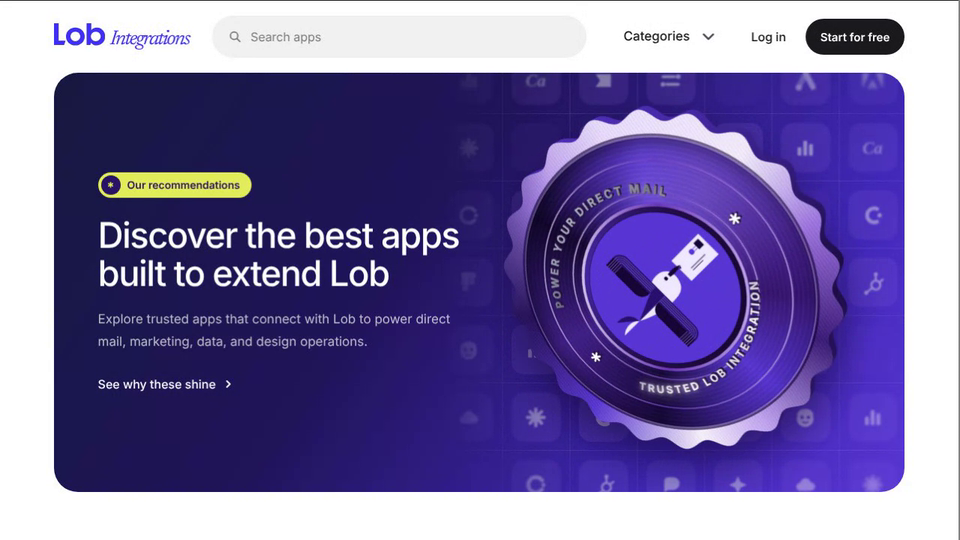
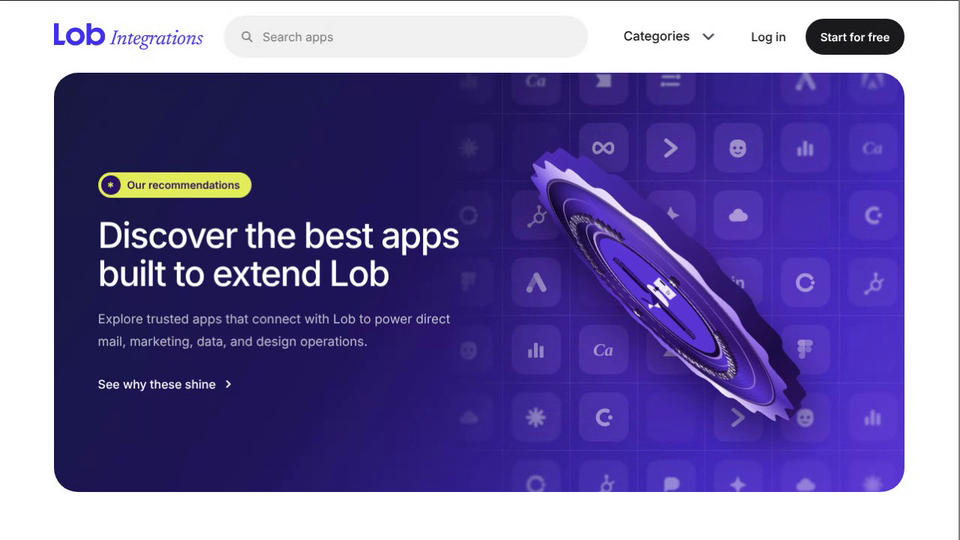
Lob Integrations Hero: loosen Integrations letter spacing (#401)
* Lob Integrations Hero: copy from lob.com/integrations, metallic purple, smaller elements, more integrations

Claude-Session: https://claude.ai/code/session_01AHeBdw5Dmhovddhvfinq8X

* Lob Integrations Hero: remove the square L from the header

Claude-Session: https://claude.ai/code/session_01AHeBdw5Dmhovddhvfinq8X

* Lob Integrations Hero: mute the logo grid

Claude-Session: https://claude.ai/code/session_01AHeBdw5Dmhovddhvfinq8X

* Lob Integrations Hero: remove the banner row and the Data/Design/API line

Claude-Session: https://claude.ai/code/session_01AHeBdw5Dmhovddhvfinq8X

* Lob Integrations Hero: satin coin surface, spinning two-sided badge, bigger badge, white-on-purple logo grid, switcher in the top nav, Direct Mail Delivery Engine ring text

Claude-Session: https://claude.ai/code/session_01AHeBdw5Dmhovddhvfinq8X

* Lob Integrations Hero: 3D raised silver lettering and link, purple blueprint backdrop, flat tiles, location hero colours and buttons

Claude-Session: https://claude.ai/code/session_01AHeBdw5Dmhovddhvfinq8X

* Lob Integrations Hero: drop stale merged lines

Claude-Session: https://claude.ai/code/session_01AHeBdw5Dmhovddhvfinq8X

* Lob Integrations Hero: marketplace layout, new headline, no mesh lines

Claude-Session: https://claude.ai/code/session_01AHeBdw5Dmhovddhvfinq8X

* Lob Integrations Hero: badge only, thicker badge, softer emboss, metallic text, Deel-style copy for Lob

Claude-Session: https://claude.ai/code/session_01AHeBdw5Dmhovddhvfinq8X
[…]

Changed region(s): [[0.5, 0.1778, 0.9062, 0.8889], [0.125, 0.0593, 0.3438, 0.0889]]

diff --git a/lob-integrations-hero/index.html b/lob-integrations-hero/index.html
@@ -25,7 +25,7 @@ nav.back b{font-weight:500;color:#fff;overflow:hidden;text-overflow:ellipsis}
 .top{flex:none;height:96px;display:flex;align-items:center;gap:28px;padding:0 var(--gut)}
 .brand{isolation:isolate;display:flex;align-items:baseline;gap:7px;color:#16161a;text-decoration:none;white-space:nowrap}
 .brand .logo{height:30px;width:auto;display:block}
-.brand em{font:italic 400 27px/1 var(--serif);color:#4131f1;white-space:nowrap;padding:0;letter-spacing:-2px;position:relative;top:-2px}
+.brand em{font:italic 400 27px/1 var(--serif);color:#4131f1;white-space:nowrap;padding:0;letter-spacing:-.5px;position:relative;top:-2px}
 .search{flex:0 1 500px;margin:0 auto;display:flex;align-items:center;gap:12px;height:56px;padding:0 22px;border-radius:99px;background:#f1f1f1;color:#7a7a82;font-size:16px;min-width:0}
 .search svg{flex:none}
 .top .links{display:flex;align-items:center;gap:26px;white-space:nowrap;font-size:16px;font-weight:500}
@@ -85,18 +85,18 @@ h1{font-weight:500;font-size:clamp(27px,3.7vw,52px);line-height:1.08;letter-spac
 .side{position:absolute;inset:0;transform-style:preserve-3d}
 .side.bk{transform:translateZ(-26px) rotateY(180deg)}
 .side>*{backface-visibility:hidden;-webkit-backface-visibility:hidden}
-.face{position:absolute;inset:0;clip-path:url(#serr);overflow:hidden;
-  background:
-   repeating-linear-gradient(100deg,rgba(255,255,255,.035) 0 2px,rgba(0,0,0,.045) 2px 4px),
-   conic-gradient(from var(--a,30deg),#f3ecff 0,#9a6fe0 9%,#3a1a78 20%,#c4a6f4 31%,#fbf7ff 38%,#5a37d4 50%,#26104f 62%,#a67fe6 74%,#eadfff 86%,#f3ecff 100%)}
-.disc{position:absolute;inset:8.5%;border-radius:50%;
-  background:
-   repeating-radial-gradient(circle at 50% 50%,rgba(255,255,255,.025) 0 2px,rgba(0,0,0,.035) 2px 6px),
-   conic-gradient(from calc(var(--a,30deg)*-1 + 210deg),#34146e,#5a37d4 12%,#170a3a 27%,#43208a 42%,#13082e 58%,#5a37d4 74%,#34146e 100%);
+.face{position:absolute;inset:0;clip-path:url(#serr);overflow:hidden;background:#2a1466}
+/* the gradients are painted once and only moved with transforms, so nothing is re-rasterised while the badge turns */
+.sheen{position:absolute;inset:-21%;will-change:transform;transform:rotate(var(--a,30deg));
+  background:conic-gradient(from 0deg,#f3ecff 0,#a07af0 10%,#4a2ab0 22%,#b8a0f0 33%,#f6f0ff 40%,#8a68e8 48%,#5a37d4 56%,#2a1466 66%,#6a47e0 76%,#d8c8fa 88%,#f3ecff 100%)}
+.disc{position:absolute;inset:8.5%;border-radius:50%;overflow:hidden;background:#1a0c40;
   box-shadow:inset 0 0 0 2px rgba(220,195,255,.4),inset 0 10px 26px rgba(0,0,0,.55),0 0 0 3px rgba(20,0,55,.65)}
-.gloss{position:absolute;inset:0;background:radial-gradient(circle at var(--gx,35%) var(--gy,25%),rgba(255,255,255,.5),rgba(255,255,255,.08) 28%,transparent 52%);mix-blend-mode:soft-light}
-.sweep{position:absolute;inset:0;background:linear-gradient(112deg,transparent 40%,rgba(255,255,255,.75) 49%,rgba(220,195,255,.15) 54%,transparent 60%);background-size:280% 100%;mix-blend-mode:screen;animation:sweep 6s ease-in-out infinite}
-@keyframes sweep{0%,35%{background-position:130% 0}80%,100%{background-position:-40% 0}}
+.disc .sheen2{position:absolute;inset:-21%;will-change:transform;transform:rotate(calc(var(--a,30deg)*-1 + 210deg));
+  background:conic-gradient(from 0deg,#34146e,#5a37d4 12%,#240f58 27%,#43208a 42%,#1a0c40 58%,#5a37d4 74%,#34146e 100%)}
+.disc::after{content:"";position:absolute;inset:0;border-radius:50%;background:repeating-radial-gradient(circle at 50% 50%,rgba(255,255,255,.02) 0 2px,rgba(0,0,0,.03) 2px 6px);box-shadow:inset 0 0 0 2px rgba(220,195,255,.4),inset 0 10px 26px rgba(0,0,0,.55)}
+.gloss{position:absolute;inset:-30%;will-change:transform;transform:translate(calc(var(--gxn,0)*1%),calc(var(--gyn,0)*1%));background:radial-gradient(circle at 50% 50%,rgba(255,255,255,.5),rgba(255,255,255,.08) 17%,transparent 32%);mix-blend-mode:soft-light}
+.sweep{position:absolute;top:0;bottom:0;left:0;width:280%;will-change:transform;background:linear-gradient(112deg,transparent 40%,rgba(255,255,255,.75) 49%,rgba(220,195,255,.15) 54%,transparent 60%);mix-blend-mode:screen;animation:sweep 6s ease-in-out infinite}
+@keyframes sweep{0%,35%{transform:translateX(-83.6%)}80%,100%{transform:translateX(25.7%)}}
 .badge svg{position:absolute;inset:0;width:100%;height:100%;overflow:visible}
 /* the extrusion layers of the raised lettering and link are one flat dark colour, the top layer carries the metal */
 .spark{pointer-events:none}
@@ -107,7 +107,7 @@ h1{font-weight:500;font-size:clamp(27px,3.7vw,52px);line-height:1.08;letter-spac
 .gl .lk path{stroke:var(--side)!important;stroke-opacity:1!important}
 
 
-@media (prefers-reduced-motion:reduce){.sp{animation:none;opacity:.9}.sweep{animation:none;background-position:60% 0;opacity:.6}.slot,.tile{transition:none}}
+@media (prefers-reduced-motion:reduce){.sp{animation:none;opacity:.9}.sweep{animation:none;transform:translateX(-30%);opacity:.6}.slot,.tile{transition:none}}
 </style>
 </head>
 <body>
@@ -260,7 +260,7 @@ function stack(inner,n,z0,dz,front){
    '<radialGradient id="plate" cx=".35" cy=".28" r=".9"><stop offset="0" stop-color="#5a37d4"/><stop offset=".55" stop-color="#26104f"/><stop offset="1" stop-color="#120626"/></radialGradient>'+
    '<linearGradient id="rim" x1="0" y1="0" x2="1" y2="1"><stop offset="0" stop-color="#faf5ff"/><stop offset=".5" stop-color="#6a35b8"/><stop offset="1" stop-color="#e2d0ff"/></linearGradient></defs>'+
    '<circle cx="200" cy="200" r="141" fill="none" stroke="url(#rim)" stroke-width="1.6" opacity=".8"/><circle cx="200" cy="200" r="106" fill="none" stroke="url(#rim)" stroke-width="1.6" opacity=".8"/>'+
-   '<circle cx="200" cy="200" r="94" fill="url(#plate)" stroke="url(#rim)" stroke-width="3.4"/><circle cx="200" cy="200" r="86" fill="none" stroke="#000" stroke-opacity=".35" stroke-width="1.5"/><circle cx="200" cy="200" r="86" fill="#5a37d4"/><g fill="#150836" transform="translate(200 200) scale(.235) translate(-570 -453.5)"><path d="M360 478H555V523C500 523 440 512 360 478Z" fill="#efe9ff"/><path d="M555 392C585 380 640 380 662 420C674 452 660 490 640 506C615 524 585 523 555 523Z" fill="#efe9ff"/><path d="M245 478C275 452 330 448 360 478Z" fill="#efe9ff"/><path d="M265 410C310 405 350 428 357 458L360 476Z" fill="#2a1170"/><path d="M360 478 555 405V478Z" fill="#2a1170"/><path d="M448 187H503V421C468 421 448 400 448 372Z"/><path d="M503 187A52 52 0 0 1 555 239V421H503Z" fill="#2a1170"/><path d="M448 720H503V478C468 478 448 500 448 528Z"/><path d="M503 720A52 52 0 0 0 555 668V478H503Z" fill="#2a1170"/><g fill="none" stroke="#9a80f2" stroke-width="2.2"><path d="M503 197A42 42 0 0 1 545 239V421M503 207A32 32 0 0 1 535 239V421M503 217A22 22 0 0 1 525 239V421M503 227A12 12 0 0 1 515 239V421"/><path d="M503 710A42 42 0 0 0 545 668V478M503 700A32 32 0 0 0 535 668V478M503 690A22 22 0 0 0 525 668V478M503 680A12 12 0 0 0 515 668V478"/><path d="M448 198H503M448 208H503M448 219H503M448 230H503M448 241H503M448 666H503M448 677H503M448 688H503M448 699H503M448 710H503"/></g><rect x="705" y="387" width="190" height="127" fill="#efe9ff"/><rect x="750" y="471" width="98" height="3"/><rect x="750" y="483" width="70" height="3"/><path d="M818 417H875M818 429H875" stroke="#5a37d4" stroke-width="2.6"/><circle cx="809" cy="423" r="13" fill="#5a37d4"/><rect x="845" y="402" width="32" height="37"/><circle cx="621" cy="426" r="9"/><path d="M643 418C670 413 705 417 721 428C700 437 665 439 643 434Z"/><path d="M700 436 721 429 714 443Z" fill="#2a1170"/></g></svg>';
+   '<circle cx="200" cy="200" r="94" fill="url(#plate)" stroke="url(#rim)" stroke-width="3.4"/><circle cx="200" cy="200" r="86" fill="none" stroke="#000" stroke-opacity=".35" stroke-width="1.5"/><circle cx="200" cy="200" r="86" fill="#5a37d4"/><g fill="#150836" transform="translate(200 200) scale(.235) translate(-558 -453.5)"><path d="M360 478H555V523C500 523 440 512 360 478Z" fill="#efe9ff"/><path d="M555 392C585 380 640 380 662 420C674 452 660 490 640 506C615 524 585 523 555 523Z" fill="#efe9ff"/><path d="M245 478C275 452 330 448 360 478Z" fill="#efe9ff"/><path d="M265 410C310 405 350 428 357 458L360 476Z" fill="#2a1170"/><path d="M360 478 555 405V478Z" fill="#2a1170"/><path d="M448 187H503V421C468 421 448 400 448 372Z"/><path d="M503 187A52 52 0 0 1 555 239V421H503Z" fill="#2a1170"/><path d="M448 720H503V478C468 478 448 500 448 528Z"/><path d="M503 720A52 52 0 0 0 555 668V478H503Z" fill="#2a1170"/><g fill="none" stroke="#9a80f2" stroke-width="2.2"><path d="M503 197A42 42 0 0 1 545 239V421M503 207A32 32 0 0 1 535 239V421M503 217A22 22 0 0 1 525 239V421M503 227A12 12 0 0 1 515 239V421"/><path d="M503 710A42 42 0 0 0 545 668V478M503 700A32 32 0 0 0 535 668V478M503 690A22 22 0 0 0 525 668V478M503 680A12 12 0 0 0 515 668V478"/><path d="M448 198H503M448 208H503M448 219H503M448 230H503M448 241H503M448 666H503M448 677H503M448 688H503M448 699H503M448 710H503"/></g><g transform="translate(705 450.5) scale(.84) translate(-705 -450.5)"><rect x="705" y="387" width="190" height="127" fill="#efe9ff"/><rect x="750" y="471" width="98" height="3"/><rect x="750" y="483" width="70" height="3"/><rect x="845" y="402" width="32" height="37"/></g><circle cx="621" cy="426" r="9"/><path d="M643 427.500C643 419.500 655 416.500 672 416.500C692 417 711 421.500 722 430C707 433.500 690 436 672 436.500C655 437 643 435.500 643 427.500Z"/></g></svg>';
   /* soft bloom: blurred copies of the outer words (MAIL, TRUSTED), faded in over a small area and breathing slowly */
   var bt='font-family="Inter,Arial,sans-serif" font-weight="700" font-size="13" letter-spacing="2.8" fill="#f4edff" text-anchor="middle"';
   function bloom(id,x,y,href,off,delay){
@@ -268,7 +268,7 @@ function stack(inner,n,z0,dz,front){
       '<g class="sp" style="animation-delay:'+delay+'s" mask="url(#'+id+'m)"><g filter="url(#bw)" opacity=".95"><text '+bt+'><textPath href="#'+href+'" startOffset="'+off+'">'+(href==='pTop'?'POWER YOUR DIRECT MAIL':'TRUSTED LOB INTEGRATION')+'</textPath></text></g><g filter="url(#bn)" opacity=".9"><text '+bt+'><textPath href="#'+href+'" startOffset="'+off+'">'+(href==='pTop'?'POWER YOUR DIRECT MAIL':'TRUSTED LOB INTEGRATION')+'</textPath></text></g></g>';
   }
   var spark='<svg class="spark" viewBox="0 0 400 400" style="transform:translateZ(9.6px)" aria-hidden="true"><defs><radialGradient id="bg"><stop offset="0" stop-color="#fff"/><stop offset=".55" stop-color="#fff" stop-opacity=".8"/><stop offset="1" stop-color="#fff" stop-opacity="0"/></radialGradient><filter id="bw" x="-20%" y="-20%" width="140%" height="140%"><feGaussianBlur stdDeviation="8.5"/></filter><filter id="bn" x="-20%" y="-20%" width="140%" height="140%"><feGaussianBlur stdDeviation="2.6"/></filter></defs>'+bloom('ba',289,129,'pTop','25%',0)+bloom('bb',112,290,'pCcw','50%',-1.5)+'</svg>';
-  var side='<div class="side"><div class="face"><div class="disc"></div><div class="gloss"></div><div class="sweep"></div></div>'+art+stack(raised,8,3,.7,{vb:'0 0 400 400',defs:defs})+spark+'</div>';
+  var side='<div class="side"><div class="face"><div class="sheen"></div><div class="disc"><div class="sheen2"></div></div><div class="gloss"></div><div class="sweep"></div></div>'+art+stack(raised,8,3,.7,{vb:'0 0 400 400',defs:defs})+spark+'</div>';
   var ext='';for(var i=1;i<=12;i++)ext+='<i class="ext" style="transform:translateZ(-'+(i*2)+'px)"></i>';
   badge.innerHTML=ext+side;
   var bk=badge.querySelector('.side').cloneNode(true);bk.classList.add('bk');badge.appendChild(bk);
@@ -287,8 +287,8 @@ function frame(now){
   var spin=calm?0:(t%6)*60;   /* a full turn every 6 s, so the clip loops seamlessly */
   badge.style.transform='rotateZ(-45deg) rotateX('+(-py*14).toFixed(2)+'deg) rotateY('+(spin+px*16).toFixed(2)+'deg)';
   var sr=spin*Math.PI/180;
-  badge.style.setProperty('--a',(30+Math.sin(sr)*60+px*50).toFixed(1)+'deg');
-  badge.style.setProperty('--gx',(50+Math.sin(sr)*40+px*20).toFixed(1)+'%'); badge.style.setProperty('--gy',(40+py*30).toFixed(1)+'%');
+  badge.style.setProperty('--a',(30+Math.sin(sr)*40+px*40).toFixed(1)+'deg');
+  badge.style.setProperty('--gxn',(Math.sin(sr)*22+px*15).toFixed(1)); badge.style.setProperty('--gyn',(-10+py*18).toFixed(1));
   var ang=(Math.sin(sr)*40+px*55+py*20).toFixed(1);
   gx.forEach(function(g){g.setAttribute('gradientTransform','rotate('+ang+' '+(g.dataset.c||'0 0')+') translate('+(px*40).toFixed(1)+' 0)')});
   requestAnimationFrame(frame);
